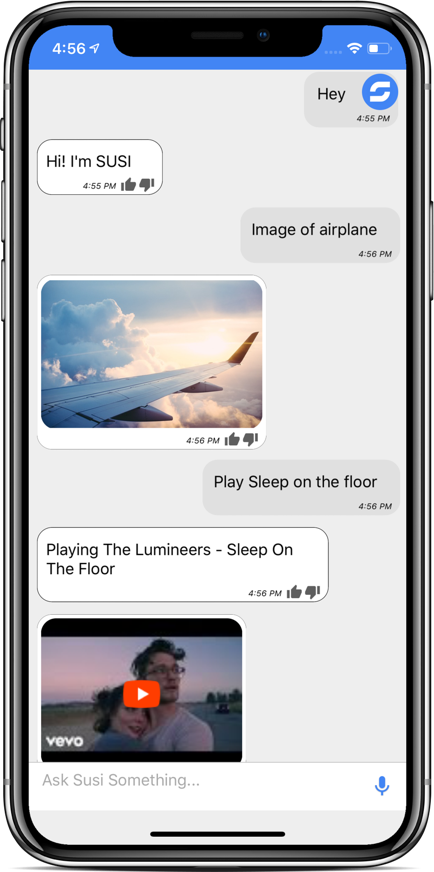
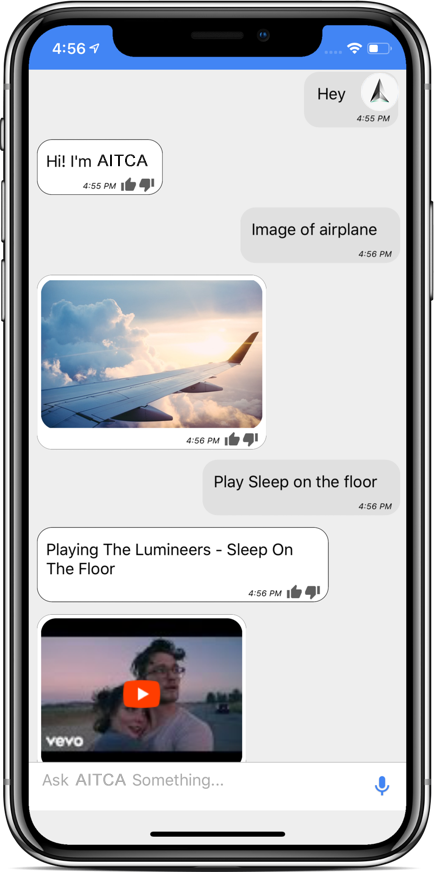
docs changed

Changed region(s): [[0.1797, 0.867, 0.4493, 0.8979], [0.2097, 0.1548, 0.3295, 0.2167], [0.8387, 0.0619, 0.9286, 0.1239]]

diff --git a/README.md b/README.md
@@ -1,30 +1,30 @@
-<p align="center"><img src="docs/_static/susi-logo.png" height="50" align="center"></p>
+<p align="center"><img src="docs/_static/aitca-logo.png" height="50" align="center"></p>
 
 <p align="center" style="color: gray;">
-Meet SUSI.AI, Your Artificial Intelligence for Personal Assistants,<br> Robots, Help Desks and Chatbots. Ask it questions.<br> Tell it to do things. Always ready to help.
+Meet AITCA, Your Artificial Intelligence for Personal Assistants,<br> Robots, Help Desks and Chatbots. Ask it questions.<br> Tell it to do things. Always ready to help.
 </p>
 
 <br />
 
-<p align="center"><img src="docs/_static/susi_app_mask.png" align="center"></p>
+<p align="center"><img src="docs/_static/app_mask.png" align="center"></p>
 
 <p align="center">  
-  <a href=https://github.com/fossasia/susi_iOS>
-  <img alt="Download on the app store" src="docs/_static/susi_app_store_bedge.png" height="64">
+  <a href="https://github.com/AITCAChain/AITCA-AI">
+  <img alt="Download on the app store" src="docs/_static/app_store_bedge.png" height="64">
   </a>
 </p>
 
-# iOS App for Susi
+# iOS App for AITCA
 
 | **CircleCI** | **Code Quality** | **Chat** | **Preview** |
 |--------------|------------------|----------|-------------|
 | [![CircleCI](https://circleci.com/gh/fossasia/susi_iOS.svg?style=svg)](https://circleci.com/gh/fossasia/susi_iOS) | [![Codacy Badge](https://api.codacy.com/project/badge/Grade/4faa165463a44fffbd23f319d78a26ea)](https://www.codacy.com/app/mb/susi_iOS?utm_source=github.com&utm_medium=referral&utm_content=fossasia/susi_iOS&utm_campaign=badger) | [![Join the chat at gitter](https://badges.gitter.im/fossasia/susi_iOS.svg)](https://gitter.im/fossasia/susi_iOS?utm_source=badge&utm_medium=badge&utm_campaign=pr-badge&utm_content=badge) | [![Preview the app](https://img.shields.io/badge/Preview-Appetize.io-orange.svg)](https://appetize.io/app/bngee02t60ambqz5ed3kjgfgkm) |
 
-The main feature of the app is to provide a conversational interface to provide intelligent answers using the loklak/AskSusi infrastructure. The SUSI iOS App make use of the APIs to access information from the hosted server. The app also offers login functionalities to connect to other services and stored personal data. Additionally the application uses data provided by the user's phone to improve Susi answers. Geolocation information for example helps to offer better answers related to questions about "things nearby". Another main feature of the app is to connect your iPhone/iPad with SUSI Smart Speaker.
+The main feature of the app is to provide a conversational interface to provide intelligent answers using the loklak/AskAITCA infrastructure. The AITCA iOS App make use of the APIs to access information from the hosted server. The app also offers login functionalities to connect to other services and stored personal data. Additionally the application uses data provided by the user's phone to improve AITCA answers. Geolocation information for example helps to offer better answers related to questions about "things nearby". Another main feature of the app is to connect your iPhone/iPad with AITCA Smart Speaker.
 
 ## Roadmap
 
-Make the app functionality and UI/UX similar to the [Android app](https://github.com/fossasia/susi_android) for Susi.
+Make the app functionality and UI/UX similar to the [Android app](https://github.com/fossasia/susi_android) for AITCA.
 
 ## Development Setup
 > __This project is written in Swift 4.2 and Xcode 10 is required for development.__
@@ -40,28 +40,18 @@ Before you begin, you should already have the Xcode downloaded and set up correc
 
 ## Setting up the iOS Project
 
-1. Download the _susi_iOS_ project source. You can do this either by forking and cloning the repository (recommended if you plan on pushing changes) or by downloading it as a ZIP file and extracting it. OR
+1. Download the _AITCA_iOS_ project source. You can do this either by forking and cloning the repository (recommended if you plan on pushing changes) or by downloading it as a ZIP file and extracting it. OR
 ```
-$ git clone https://github.com/fossasia/susi_iOS.git
+$ git clone https://github.com/AITCAChain/AITCA-AI
 ```
 
 2. Navigate to the unzipped folder and run `pod install`.
 
-3. Open `Susi.xcworkspace` from the folder.
+3. Open `AITCA.xcworkspace` from the folder.
 
 4. Build the project (⌘+B) and check for any errors.
 
 5. Run the app (⌘+R).and test it.
-
-## Communication
-
-Please join our mailing list to discuss questions regarding the project: https://groups.google.com/forum/#!forum/susiai
-
-Our chat channel is on gitter here: https://gitter.im/fossasia/susi_iOS
-
-## Development
-
-A native iOS app. The answers for user queries comes from [SUSI Server](https://github.com/fossasia/susi_server) which further uses skills defined in [SUSI Skill Data](https://github.com/fossasia/susi_skill_data).
 
 ## Screenshots
 
@@ -107,6 +97,6 @@ Please help us follow the best practice to make it easy for the reviewer as well
 
 ## License
 
-This project is currently licensed under the Apache License Version 2.0. A copy of [LICENSE.md](https://github.com/fossasia/susi_iOS/blob/master/LICENSE) should be present along with the source code. To obtain the software under a different license, please contact FOSSASIA.
+This project is currently licensed under the Apache License Version 2.0. A copy of [LICENSE.md](https://github.com/AITCAChain/AITCA-AI/blob/master/LICENSE) should be present along with the source code. To obtain the software under a different license, please contact FOSSASIA.
 
 
